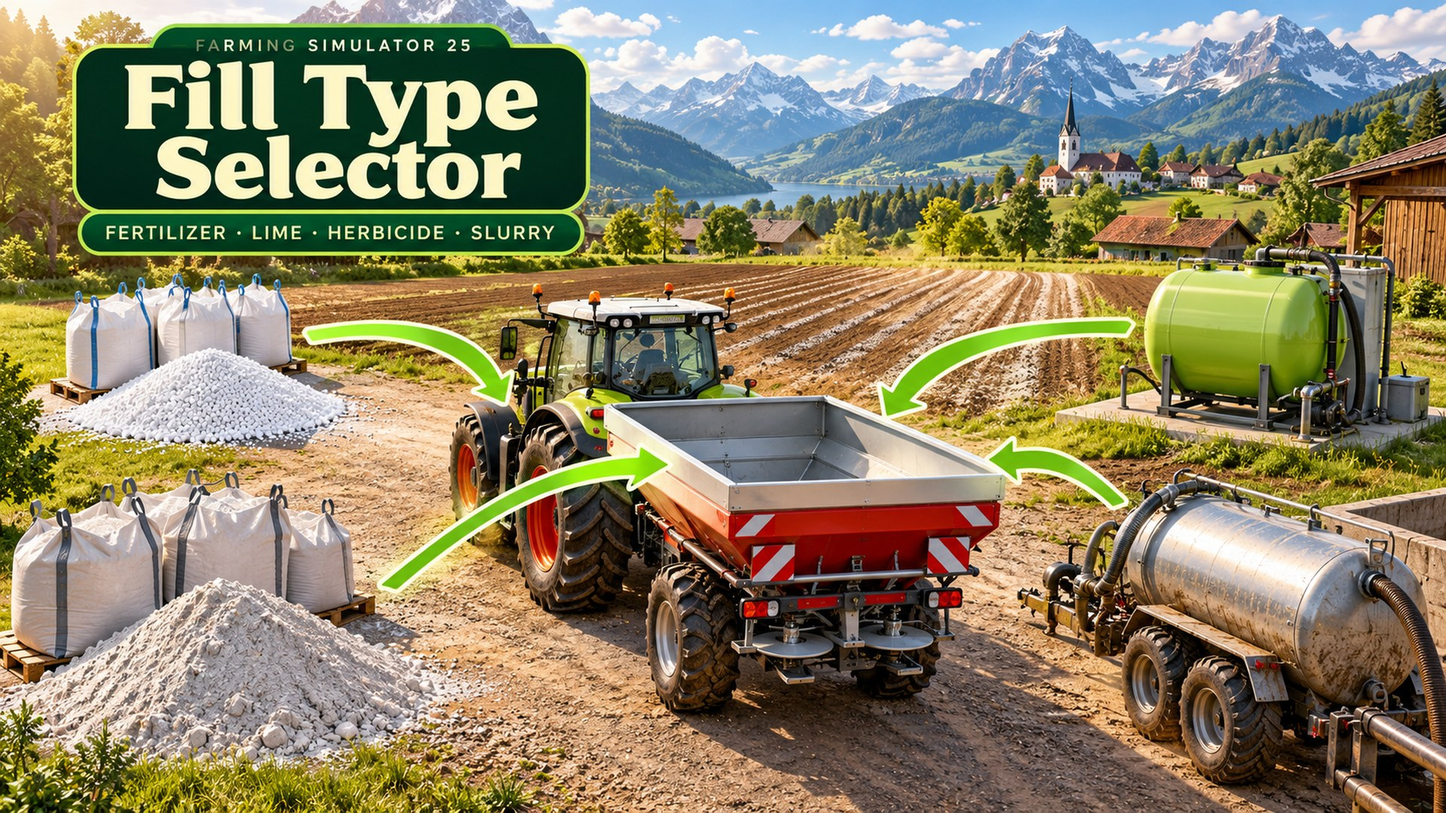
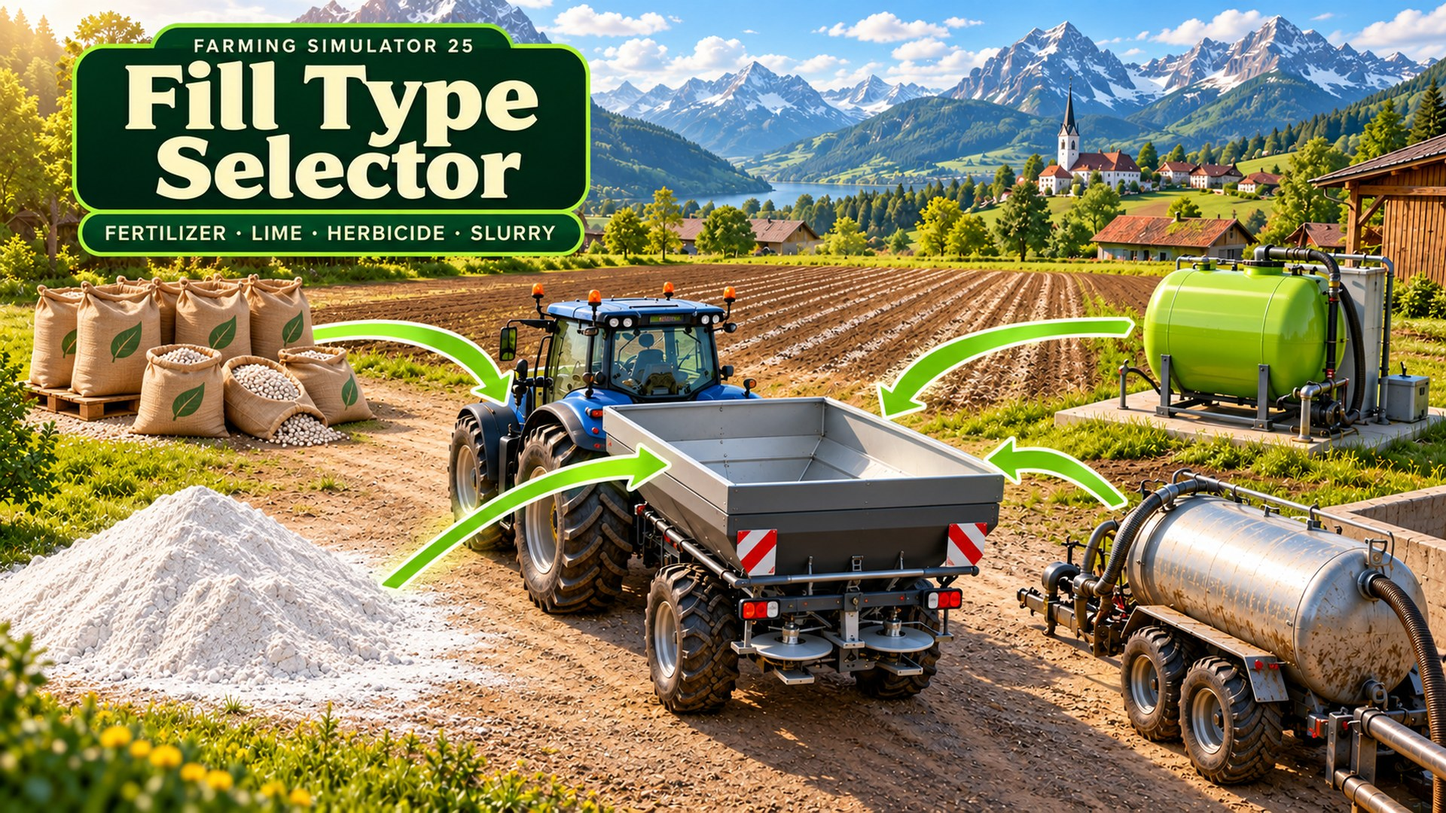
docs(fill-type-selector): redraw cover so fertilizer and lime look different

diff --git a/fill-type-selector-mod/DEVELOPMENT.md b/fill-type-selector-mod/DEVELOPMENT.md
@@ -7,7 +7,7 @@
 - 2026-10-21 首次实现：离线行为测试和多人模拟通过，三个脚本通过本机 fs-luau-compile 编译。尚未在游戏内测试，下方 FTS-01 至 FTS-14 全部待维护者执行。
 - 1.0.0.0：维护者 2026-10-25 确认已实机测试，未提供逐项记录（包括主机/客户端），下方 FTS 清单不据此逐项标为通过。
 - 首个正式版为 1.0.0.0（见“1.0.0.0 发布准备”），已登记到 `tools/ci.py` 的 `MODS` 和根 README 的 Mod 列表；之后的改动记录在 CHANGELOG 的 Unreleased。
-- 封面 `assets/cover.jpg`（1920×1080）2026-10-25 由 Codex CLI 图像生成制作，以动物产品管理的封面为风格参考，原图和提示词记录在被忽略的 `outputs/fill-type-selector/cover/`；README 顶部显示。游戏内截图尚缺，维护者之后提供。
+- 封面 `assets/cover.jpg`（1920×1080）2026-10-25 由 Codex CLI 图像生成制作，以动物产品管理的封面为风格参考，同日按维护者要求重新生成：肥料改为参照游戏图标的带绿叶标记棕色袋装颗粒，石灰为白色粉堆，拖拉机改为不像任何真实品牌的配色；原图和提示词记录在被忽略的 `outputs/fill-type-selector/cover/`（`v2/` 为现用版本）；README 顶部显示。游戏内截图尚缺，维护者之后提供。
 
 ## 1.0.0.0 发布准备
 
